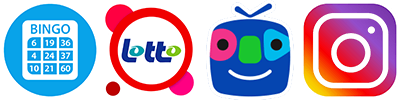
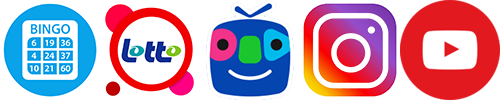
Add files via upload

diff --git a/index.html b/index.html
@@ -6,7 +6,7 @@
   <meta name="author" content="고니랑용주랑">
   <meta name="description" content="보고니 배틀그라운드 보고니 배그 보고니 게임 보고니 미션 보고니 배그 미션 보고니 빙고 보고니 로또 보고니 아프리카티비 보고니 아프리카TV 보고니 사이트 보고니 홈페이지 보고니 블로그 보고니 유튜브 보고니 인스타 배틀그라운드 게임 배그 게임 배틀그라운드 미션 배틀그라운드 빙고 미션 배틀그라운드 빙고판 배그 미션 배그 빙고 미션 배그 빙고판 배틀그라운드 로또 미션 배그 로또 미션">
   <meta name="google-site-verification" content="sT6QuaFxQ_Xmb-jXhUwispWgXfRqtduRW6tB0zd7Pf0" />
-  <title>보고니 | 아프리카TV</title>
+  <title>보고니 | 미니게임</title>
   <link rel="shortcut icon" href="https://res.afreecatv.com/afreeca.ico">
   <link rel="icon" href="https://res.afreecatv.com/afreeca.ico">
   <link rel="stylesheet" href="css/main.css">
@@ -21,24 +21,29 @@
   <div id="title"><div id="title-name">보고니</div>게임 천국</div>
   <div id="buttons">
     <div id="button-group1">
-      <span id="span-cyan" data-tooltip-text="빙고 게임">
-        <a id="a-bingo" href="bingo" class="btn-3d cyan">
+      <span id="span-bingo" data-tooltip-text="빙고 게임">
+        <a id="a-bingo" href="bingo" class="btn-3d purple">
 	      <div id="bingo" class="btn-img bingo"></div>
 	    </a>
       </span>
-      <span id="span-yellow" data-tooltip-text="로또 게임">
-        <a id="a-lotto" href="lotto" class="btn-3d yellow">
+      <span id="span-lotto" data-tooltip-text="로또 게임">
+        <a id="a-lotto" href="lotto" class="btn-3d orange">
           <div id="lotto" class="btn-img lotto"></div>
         </a>
       </span>
     </div>
     <div id="button-group2">
-      <span id="span-blue" data-tooltip-text="아프리카TV">
+      <span id="span-afreecatv" data-tooltip-text="아프리카TV">
         <a href="http://bj.afreecatv.com/bogong" class="btn-3d blue">
           <div id="afreecatv" class="btn-img afreecatv"></div>
 	    </a>
       </span>
-      <span id="span-green" data-tooltip-text="인스타그램">
+      <span id="span-youtube" data-tooltip-text="유튜브">
+        <a href="https://www.youtube.com/channel/UCSI9uOrF3qjIkeLIUxDw6pw" class="btn-3d gray">
+          <div id="youtube" class="btn-img youtube"></div>
+        </a>
+      </span>
+      <span id="span-instar" data-tooltip-text="인스타그램">
         <a href="https://www.instagram.com/bo_go_ni" class="btn-3d green">
           <div id="instar" class="btn-img instar"></div>
         </a>

diff --git a/css/button.css b/css/button.css
@@ -14,10 +14,13 @@
 }
 .btn-3d.red:hover    {background-color: #e74c3c;}
 .btn-3d.blue:hover   {background-color: #699DD1;}
-.btn-3d.green:hover  {background-color: #80C49D;}
+/* .btn-3d.green:hover  {background-color: #80C49D;} */
+.btn-3d.green:hover  {background-color: #9CCC65;}
 .btn-3d.purple:hover {background-color: #D19ECB;}
 .btn-3d.yellow:hover {background-color: #F0D264;}
 .btn-3d.cyan:hover   {background-color: #82D1E3;}
+.btn-3d.gray:hover    {background-color: #BDBDBD;}
+.btn-3d.orange:hover {background-color: #FFB300;}
 
 .btn-3d:hover {
 	top: 9px;
@@ -53,15 +56,19 @@
 }
 
 .btn-3d.green {
-	background-color: #82c8a0;
-	box-shadow: 0 0 0 1px #82c8a0 inset,
+/*	background-color: #82c8a0;*/
+	background-color: #9CCC65; 
+/*	box-shadow: 0 0 0 1px #82c8a0 inset,*/
+	box-shadow: 0 0 0 1px #9CCC65 inset,
 				0 0 0 2px rgba(255,255,255,0.15) inset,
-				0 8px 0 0 rgba(126, 194, 155, .7),
+/*				0 8px 0 0 rgba(126, 194, 155, .7), */
+				0 8px 0 0 rgba(150, 200, 96, .7),
 				0 8px 0 1px rgba(0,0,0,.4),
 				0 8px 8px 1px rgba(0,0,0,0.5);
 }
 .btn-3d.green:hover {
-	box-shadow: 0 0 0 1px #82c8a0 inset,
+/*	box-shadow: 0 0 0 1px #82c8a0 inset, */
+	box-shadow: 0 0 0 1px #9CCC65 inset,
 				0 0 0 2px rgba(255,255,255,0.15) inset,
 				0 0 0 1px rgba(0,0,0,0.4);
 }
@@ -104,6 +111,34 @@
 }
 .btn-3d.yellow:hover {
 	box-shadow: 0 0 0 1px #F0D264 inset,
+				0 0 0 2px rgba(255,255,255,0.15) inset,
+				0 0 0 1px rgba(0,0,0,0.4);
+}
+
+.btn-3d.gray {
+	background-color: #BDBDBD;
+	box-shadow: 0 0 0 1px #BDBDBD inset,
+				0 0 0 2px rgba(255,255,255,0.15) inset,
+				0 8px 0 0 rgba(183, 185, 184, .7),
+				0 8px 0 1px rgba(0,0,0,.4),
+				0 8px 8px 1px rgba(0,0,0,0.5);
+}
+.btn-3d.gray:hover {
+	box-shadow: 0 0 0 1px #BDBDBD inset,
+				0 0 0 2px rgba(255,255,255,0.15) inset,
+				0 0 0 1px rgba(0,0,0,0.4);
+}
+
+.btn-3d.orange {
+	background-color: #FFB300;
+	box-shadow: 0 0 0 1px #FFB300 inset,
+				0 0 0 2px rgba(255,255,255,0.15) inset,
+				0 8px 0 0 rgba(249, 179, 72, .7),
+				0 8px 0 1px rgba(0,0,0,.4),
+				0 8px 8px 1px rgba(0,0,0,0.5);
+}
+.btn-3d.orange:hover {
+	box-shadow: 0 0 0 1px #FFB300 inset,
 				0 0 0 2px rgba(255,255,255,0.15) inset,
 				0 0 0 1px rgba(0,0,0,0.4);
 }

diff --git a/css/main.css b/css/main.css
@@ -51,24 +51,33 @@ body {
   height: 100px;
   background-position: -200px;
 }
+.youtube {
+  width: 100px;
+  height: 100px;
+  background-position: -400px;
+}
 .instar {
   width: 100px;
   height: 100px;
   background-position: -300px;
 }
-#span-cyan:hover:after {
+#span-bingo:hover:after {
   top: 30%;
   left: 28%;
 }
-#span-yellow:hover:after {
+#span-lotto:hover:after {
   top: 30%;
   left: 28%;
 }
-#span-blue:hover:after {
+#span-afreecatv:hover:after {
   top: 30%;
   left: 23.5%;
 }
-#span-green:hover:after {
+#span-youtube:hover:after {
+  top: 30%;
+  left: 32.5%;
+}
+#span-instar:hover:after {
   top: 30%;
   left: 25%;
 }
